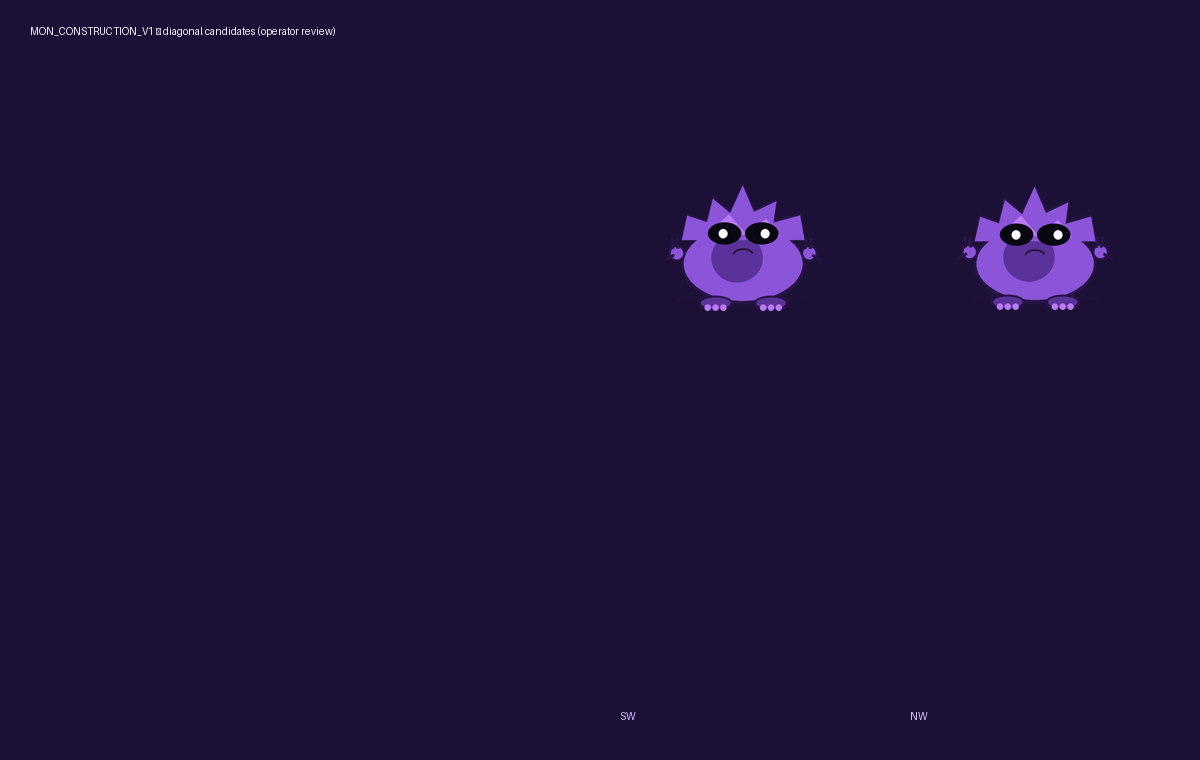
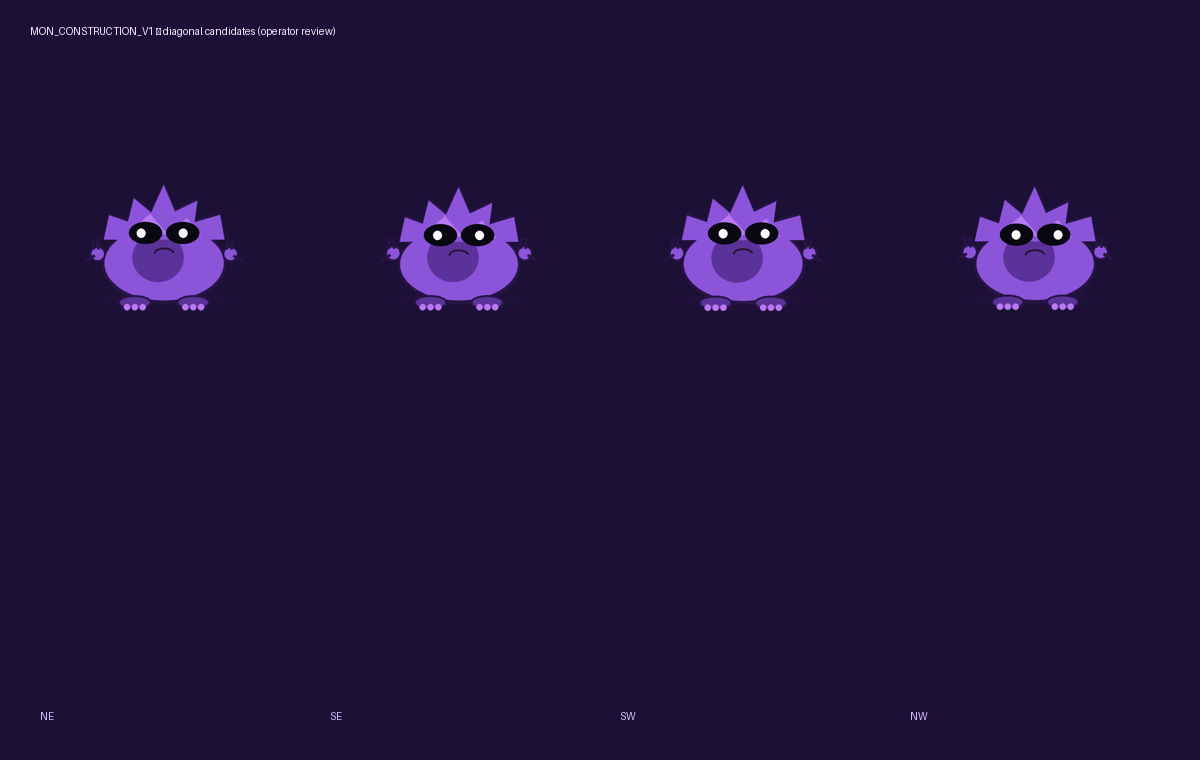
fix: render all diagonal review candidates

Changed region(s): [[0.0617, 0.2421, 0.2158, 0.4237], [0.3083, 0.2421, 0.4317, 0.4237]]

diff --git a/experiments/p02-embodiment/scripts/review_materials.py b/experiments/p02-embodiment/scripts/review_materials.py
@@ -9,7 +9,7 @@ def main():
     # Four diagonal candidates are represented by authored direction frames and
     # explicitly marked as candidates; no mirror is used.
     im,d=canvas("MON_CONSTRUCTION_V1 — diagonal candidates (operator review)")
-    names=["greeting_NE_075.png","greeting_SE_077.png","retreat_SW_173.png","retreat_NW_175.png"]
+    names=["greeting_NE_073.png","greeting_SE_075.png","retreat_SW_173.png","retreat_NW_175.png"]
     for i,n in enumerate(names):
         p=OUT/"frames"/n
         if p.exists():
